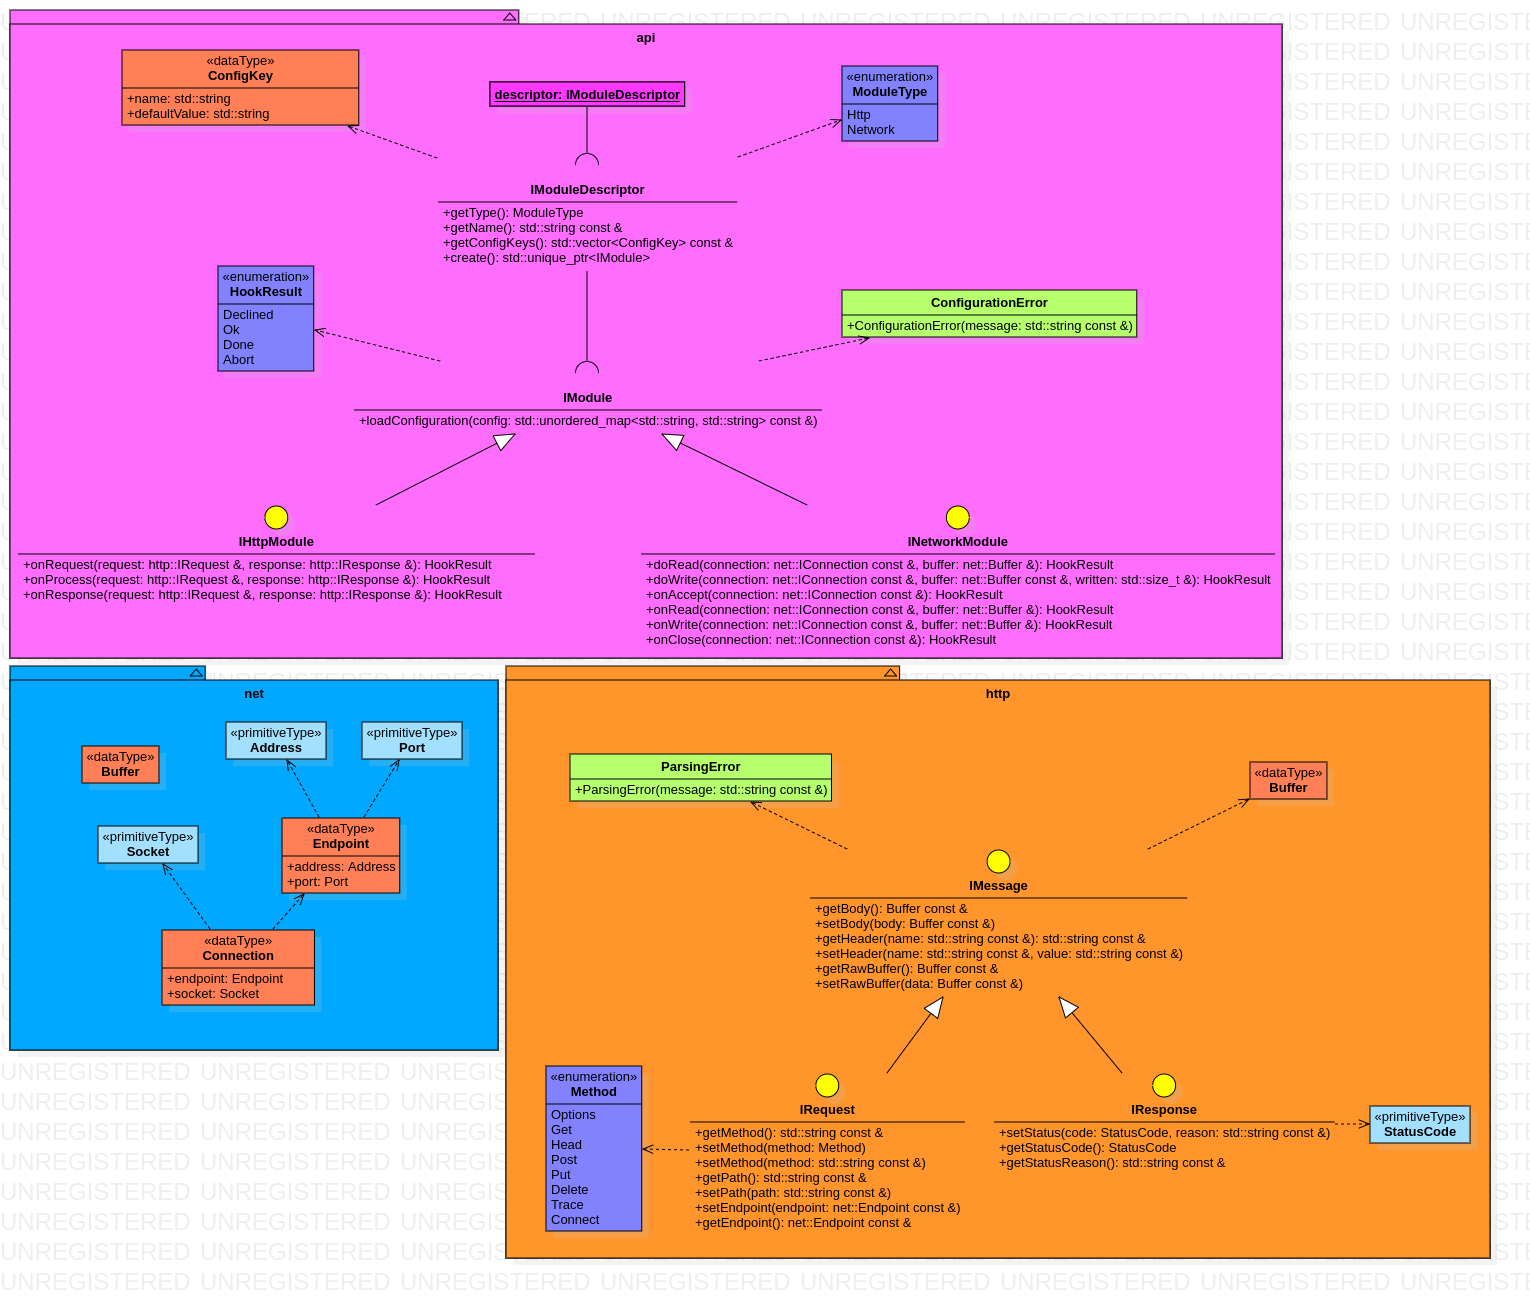
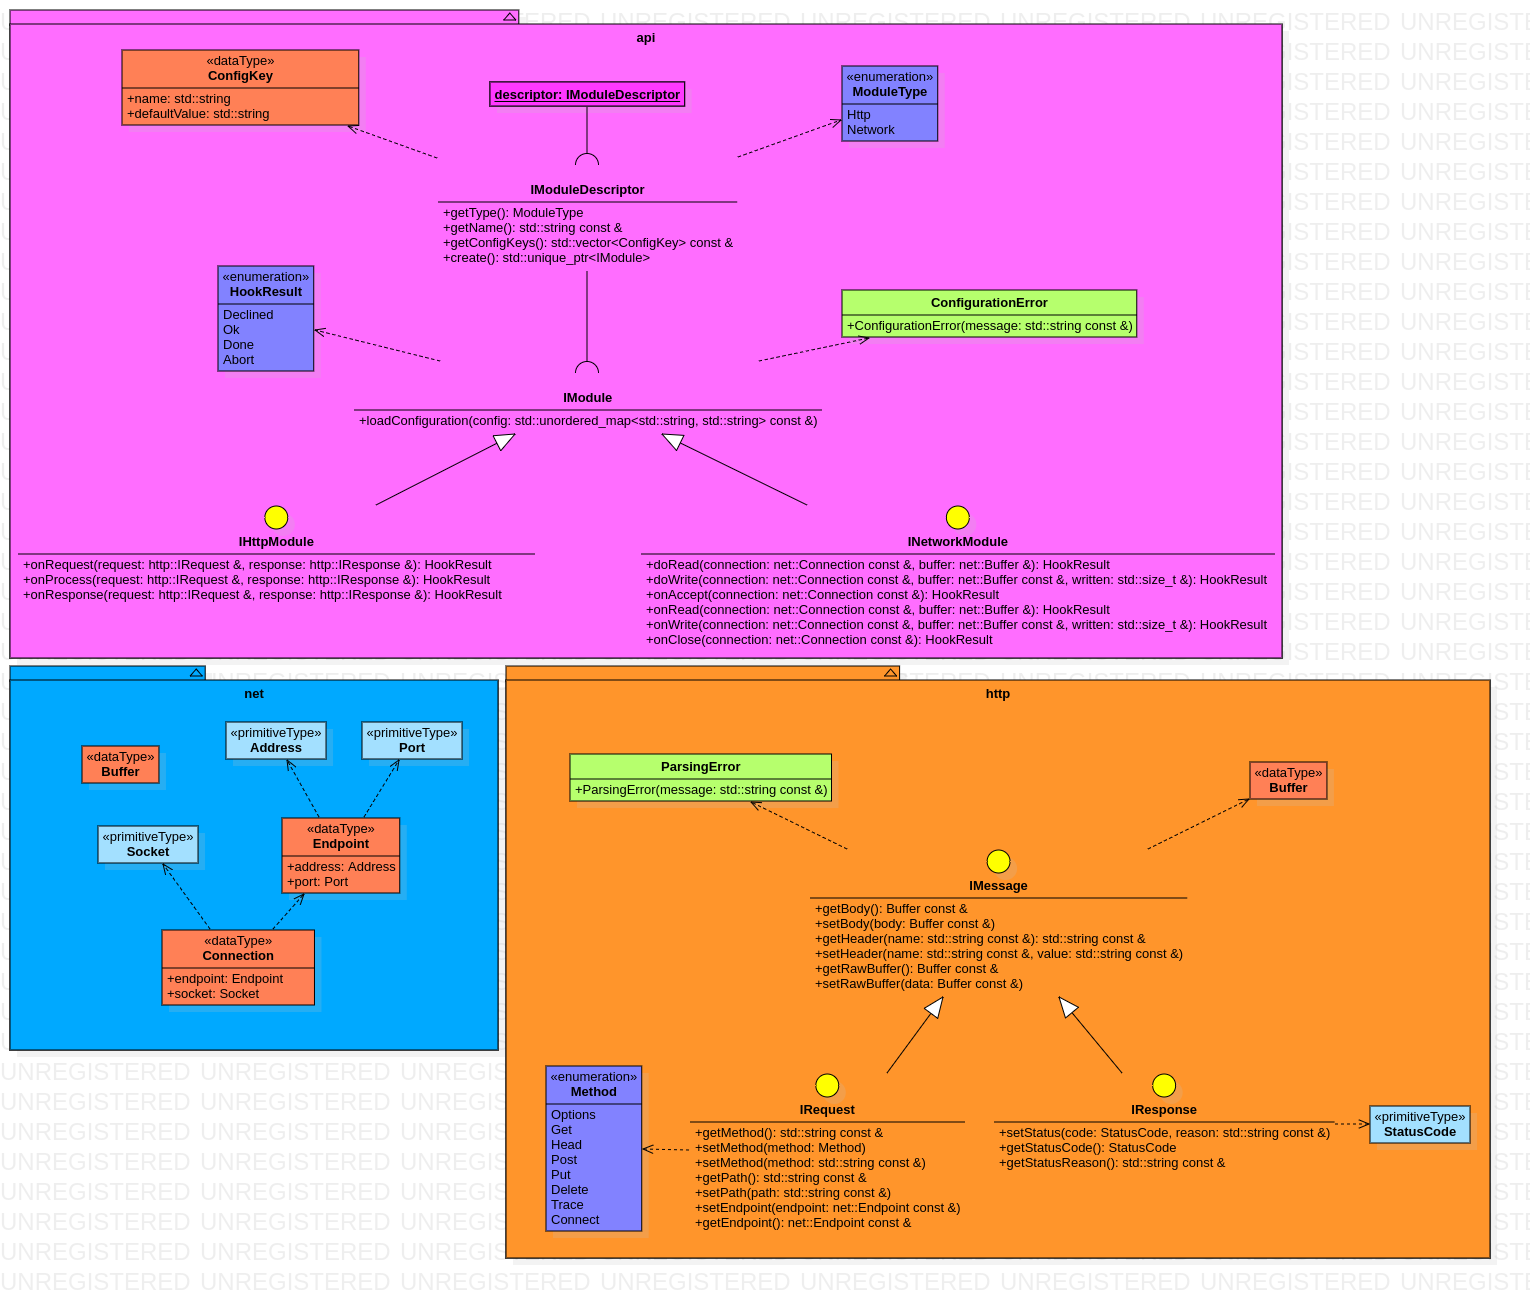
api::INetworkModule::doWrite() hook takes written bytes into account

Changed region(s): [[0.5222, 0.4314, 0.8294, 0.4931]]

diff --git a/interfaces/zia/api/INetworkModule.hpp b/interfaces/zia/api/INetworkModule.hpp
@@ -53,10 +53,12 @@ public:
     /// \param connection Contains the data of the connection (Endpoint and
     /// Socket)
     /// \param buffer Contains the data to write in the Socket
+    /// \param written Number of bytes written
     /// \return Result of the hook
     ///
     virtual HookResult doWrite(net::Connection const &connection,
-                               net::Buffer &buffer) = 0;
+                               net::Buffer const &buffer,
+                               std::size_t &written) = 0;
 
     ///
     /// \brief This method wiil be called after the write function

diff --git a/examples/ip-whitelist-network-module/IpWhiteListModule.hpp b/examples/ip-whitelist-network-module/IpWhiteListModule.hpp
@@ -18,7 +18,8 @@ public:
                                 zia::net::Buffer &buffer) override;
 
     zia::api::HookResult doWrite(const zia::net::Connection &connection,
-                                 zia::net::Buffer &buffer) override;
+                                 zia::net::Buffer const &buffer,
+                                 std::size_t &written) override;
 
     zia::api::HookResult onWrite(const zia::net::Connection &connection,
                                  zia::net::Buffer &buffer) override;

diff --git a/examples/ip-whitelist-network-module/IpWhiteListModule.cpp b/examples/ip-whitelist-network-module/IpWhiteListModule.cpp
@@ -35,7 +35,8 @@ zia::api::HookResult IpWhiteListModule::onRead(const zia::net::Connection &,
 }
 
 zia::api::HookResult IpWhiteListModule::doWrite(const zia::net::Connection &,
-                                                zia::net::Buffer &)
+                                                zia::net::Buffer const &,
+                                                std::size_t &)
 {
     return zia::api::HookResult::Declined;
 }
